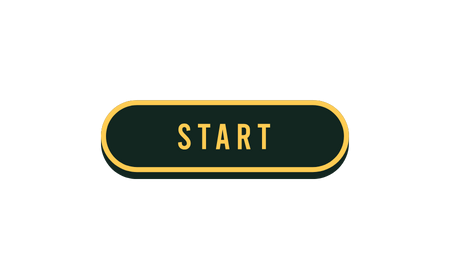
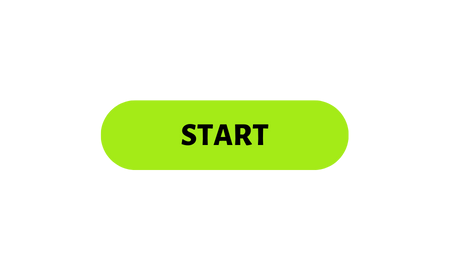
Add pause button to GameMatchScreen + Change Start button in TankScreen

Changed region(s): [[0.2183, 0.3556, 0.7795, 0.6519]]

diff --git a/core/src/com/gdx/tankstars/screen/GameMatchScreen.java b/core/src/com/gdx/tankstars/screen/GameMatchScreen.java
@@ -8,6 +8,7 @@ import com.gdx.tankstars.TankStarsGame;
 public class GameMatchScreen implements Screen {
     private TankStarsGame game;
     private Texture gameMatchScreenTexture;
+    private Texture pauseButtonTexture;
 
     public GameMatchScreen(TankStarsGame game) {
         this.game = game;
@@ -16,12 +17,14 @@ public class GameMatchScreen implements Screen {
     @Override
     public void show() {
         gameMatchScreenTexture = new Texture(Gdx.files.internal("bg-game.png"));
+        pauseButtonTexture = new Texture(Gdx.files.internal("button-pause.png"));
     }
 
     @Override
     public void render(float delta) {
         game.getBatch().begin();
         game.getBatch().draw(gameMatchScreenTexture, 0, 0);
+        game.getBatch().draw(pauseButtonTexture, 1230 , 670);
         game.getBatch().end();
     }
 

diff --git a/core/src/com/gdx/tankstars/screen/GamePauseScreen.java b/core/src/com/gdx/tankstars/screen/GamePauseScreen.java
@@ -1,0 +1,50 @@
+package com.gdx.tankstars.screen;
+
+import com.badlogic.gdx.Screen;
+import com.badlogic.gdx.graphics.Texture;
+import com.gdx.tankstars.TankStarsGame;
+
+public class GamePauseScreen implements Screen {
+    private TankStarsGame game;
+    private Texture pauseScreenTexture;
+
+    public GamePauseScreen(TankStarsGame game) {
+        this.game = game;
+    }
+
+
+    @Override
+    public void show() {
+
+    }
+
+    @Override
+    public void render(float delta) {
+
+    }
+
+    @Override
+    public void resize(int width, int height) {
+
+    }
+
+    @Override
+    public void pause() {
+
+    }
+
+    @Override
+    public void resume() {
+
+    }
+
+    @Override
+    public void hide() {
+
+    }
+
+    @Override
+    public void dispose() {
+
+    }
+}
